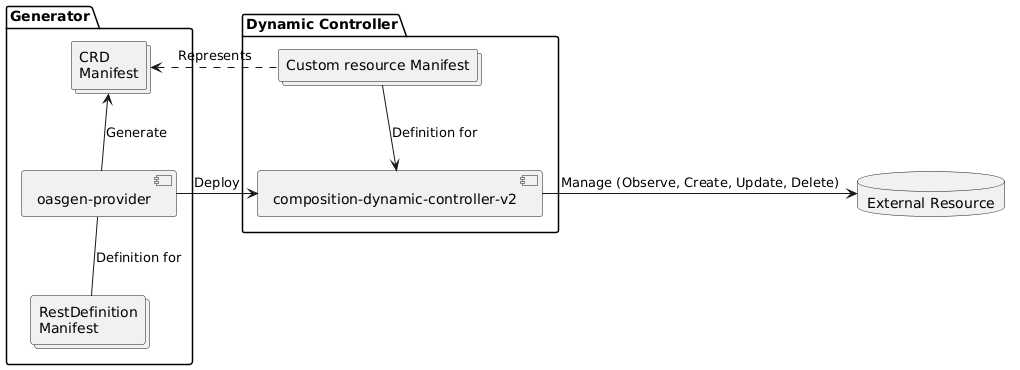
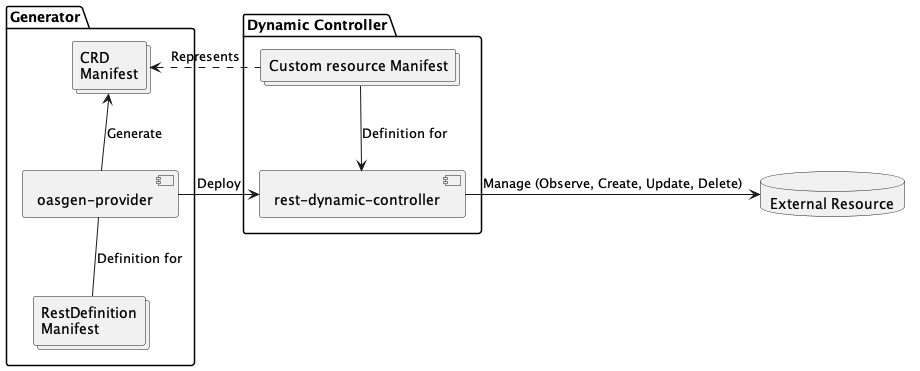
docs: delete references to composition-dynamic-controller-v2 (#27)

Changed region(s): [[0.0, 0.0297, 1.0, 1.0]]

diff --git a/README.md b/README.md
@@ -30,7 +30,7 @@ A k8s controller that generates CRDs and controller to manage resources from Ope
 
 ## Technical Overview
 
-`oasgen-provider` analyzes OAS 3.1 definitions to discern the structure and requirements of the intended resources. Utilizing this information, it orchestrates the deployment of the [composition-dynamic-controller-v2](https://github.com/krateoplatformops/composition-dynamic-controller-v2), specifically tasked with managing resources that correspond to the type defined by the CRD.
+`oasgen-provider` analyzes OAS 3.1 definitions to discern the structure and requirements of the intended resources. Utilizing this information, it orchestrates the deployment of the [rest-dynamic-controller](https://github.com/krateoplatformops/rest-dynamic-controller), specifically tasked with managing resources that correspond to the type defined by the CRD.
 
 ### Architecture
 ![Generator Architecture Image](_diagram/generator.png "Generator Architecture")
